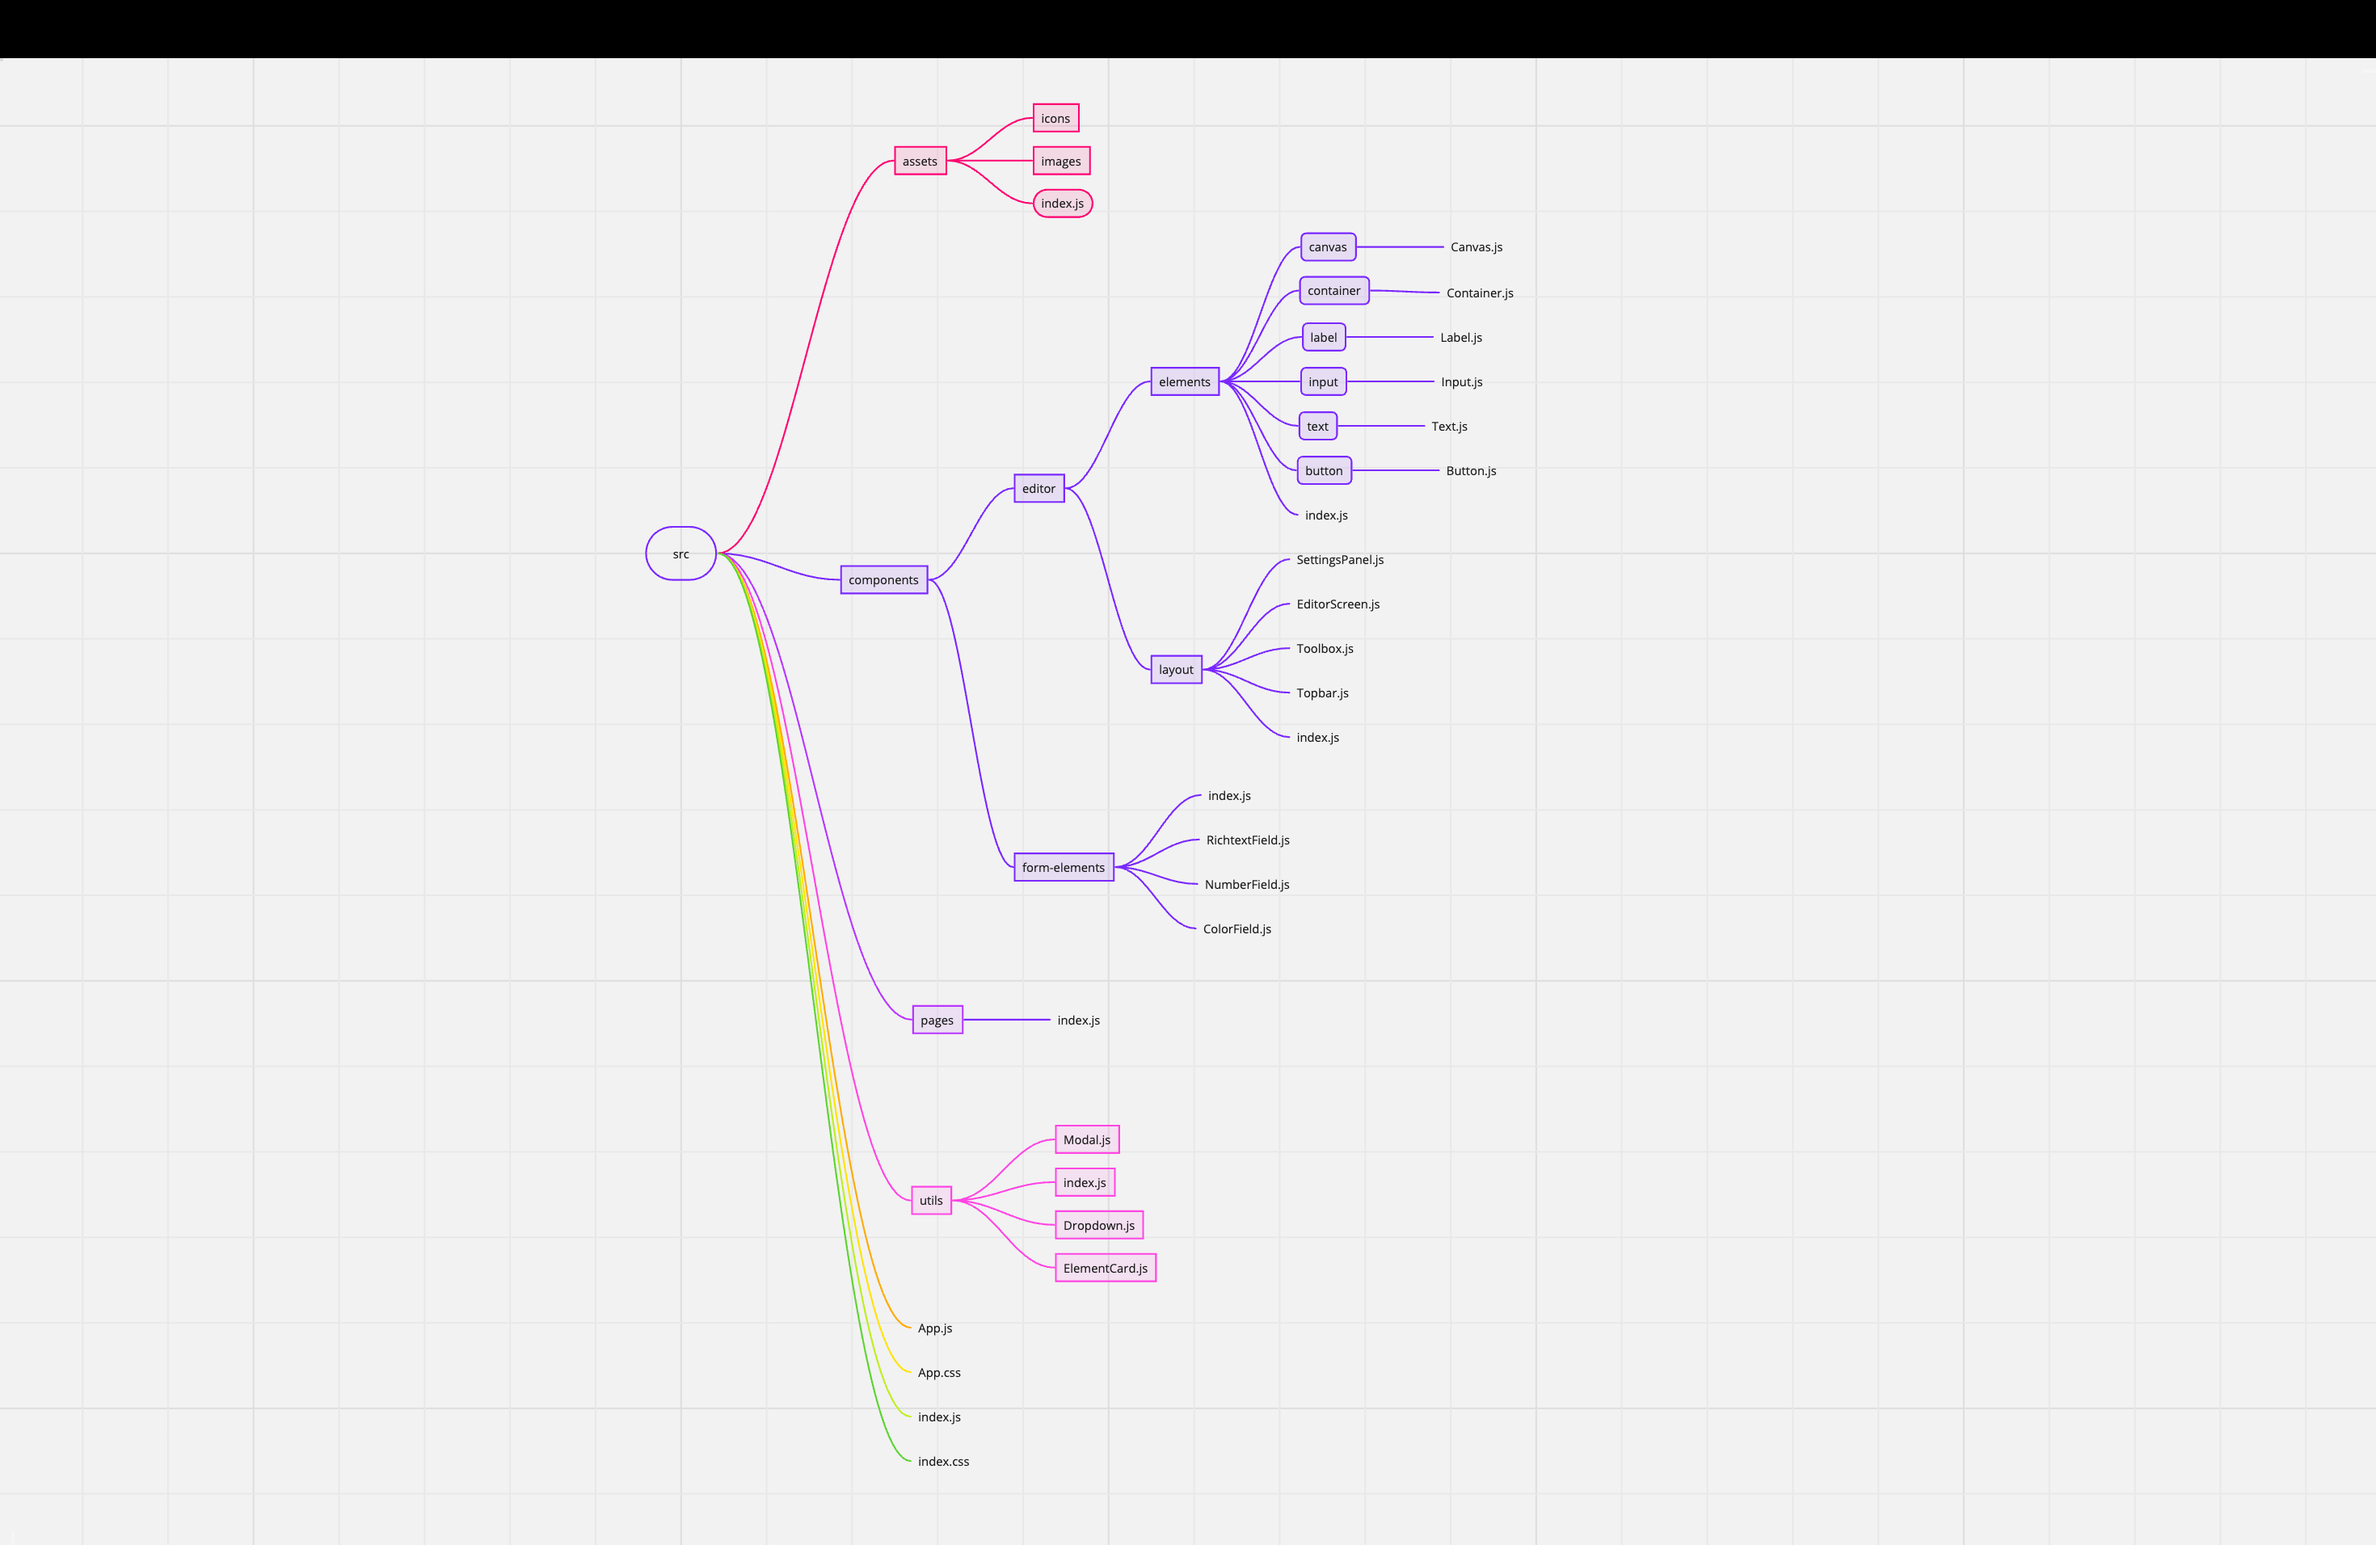
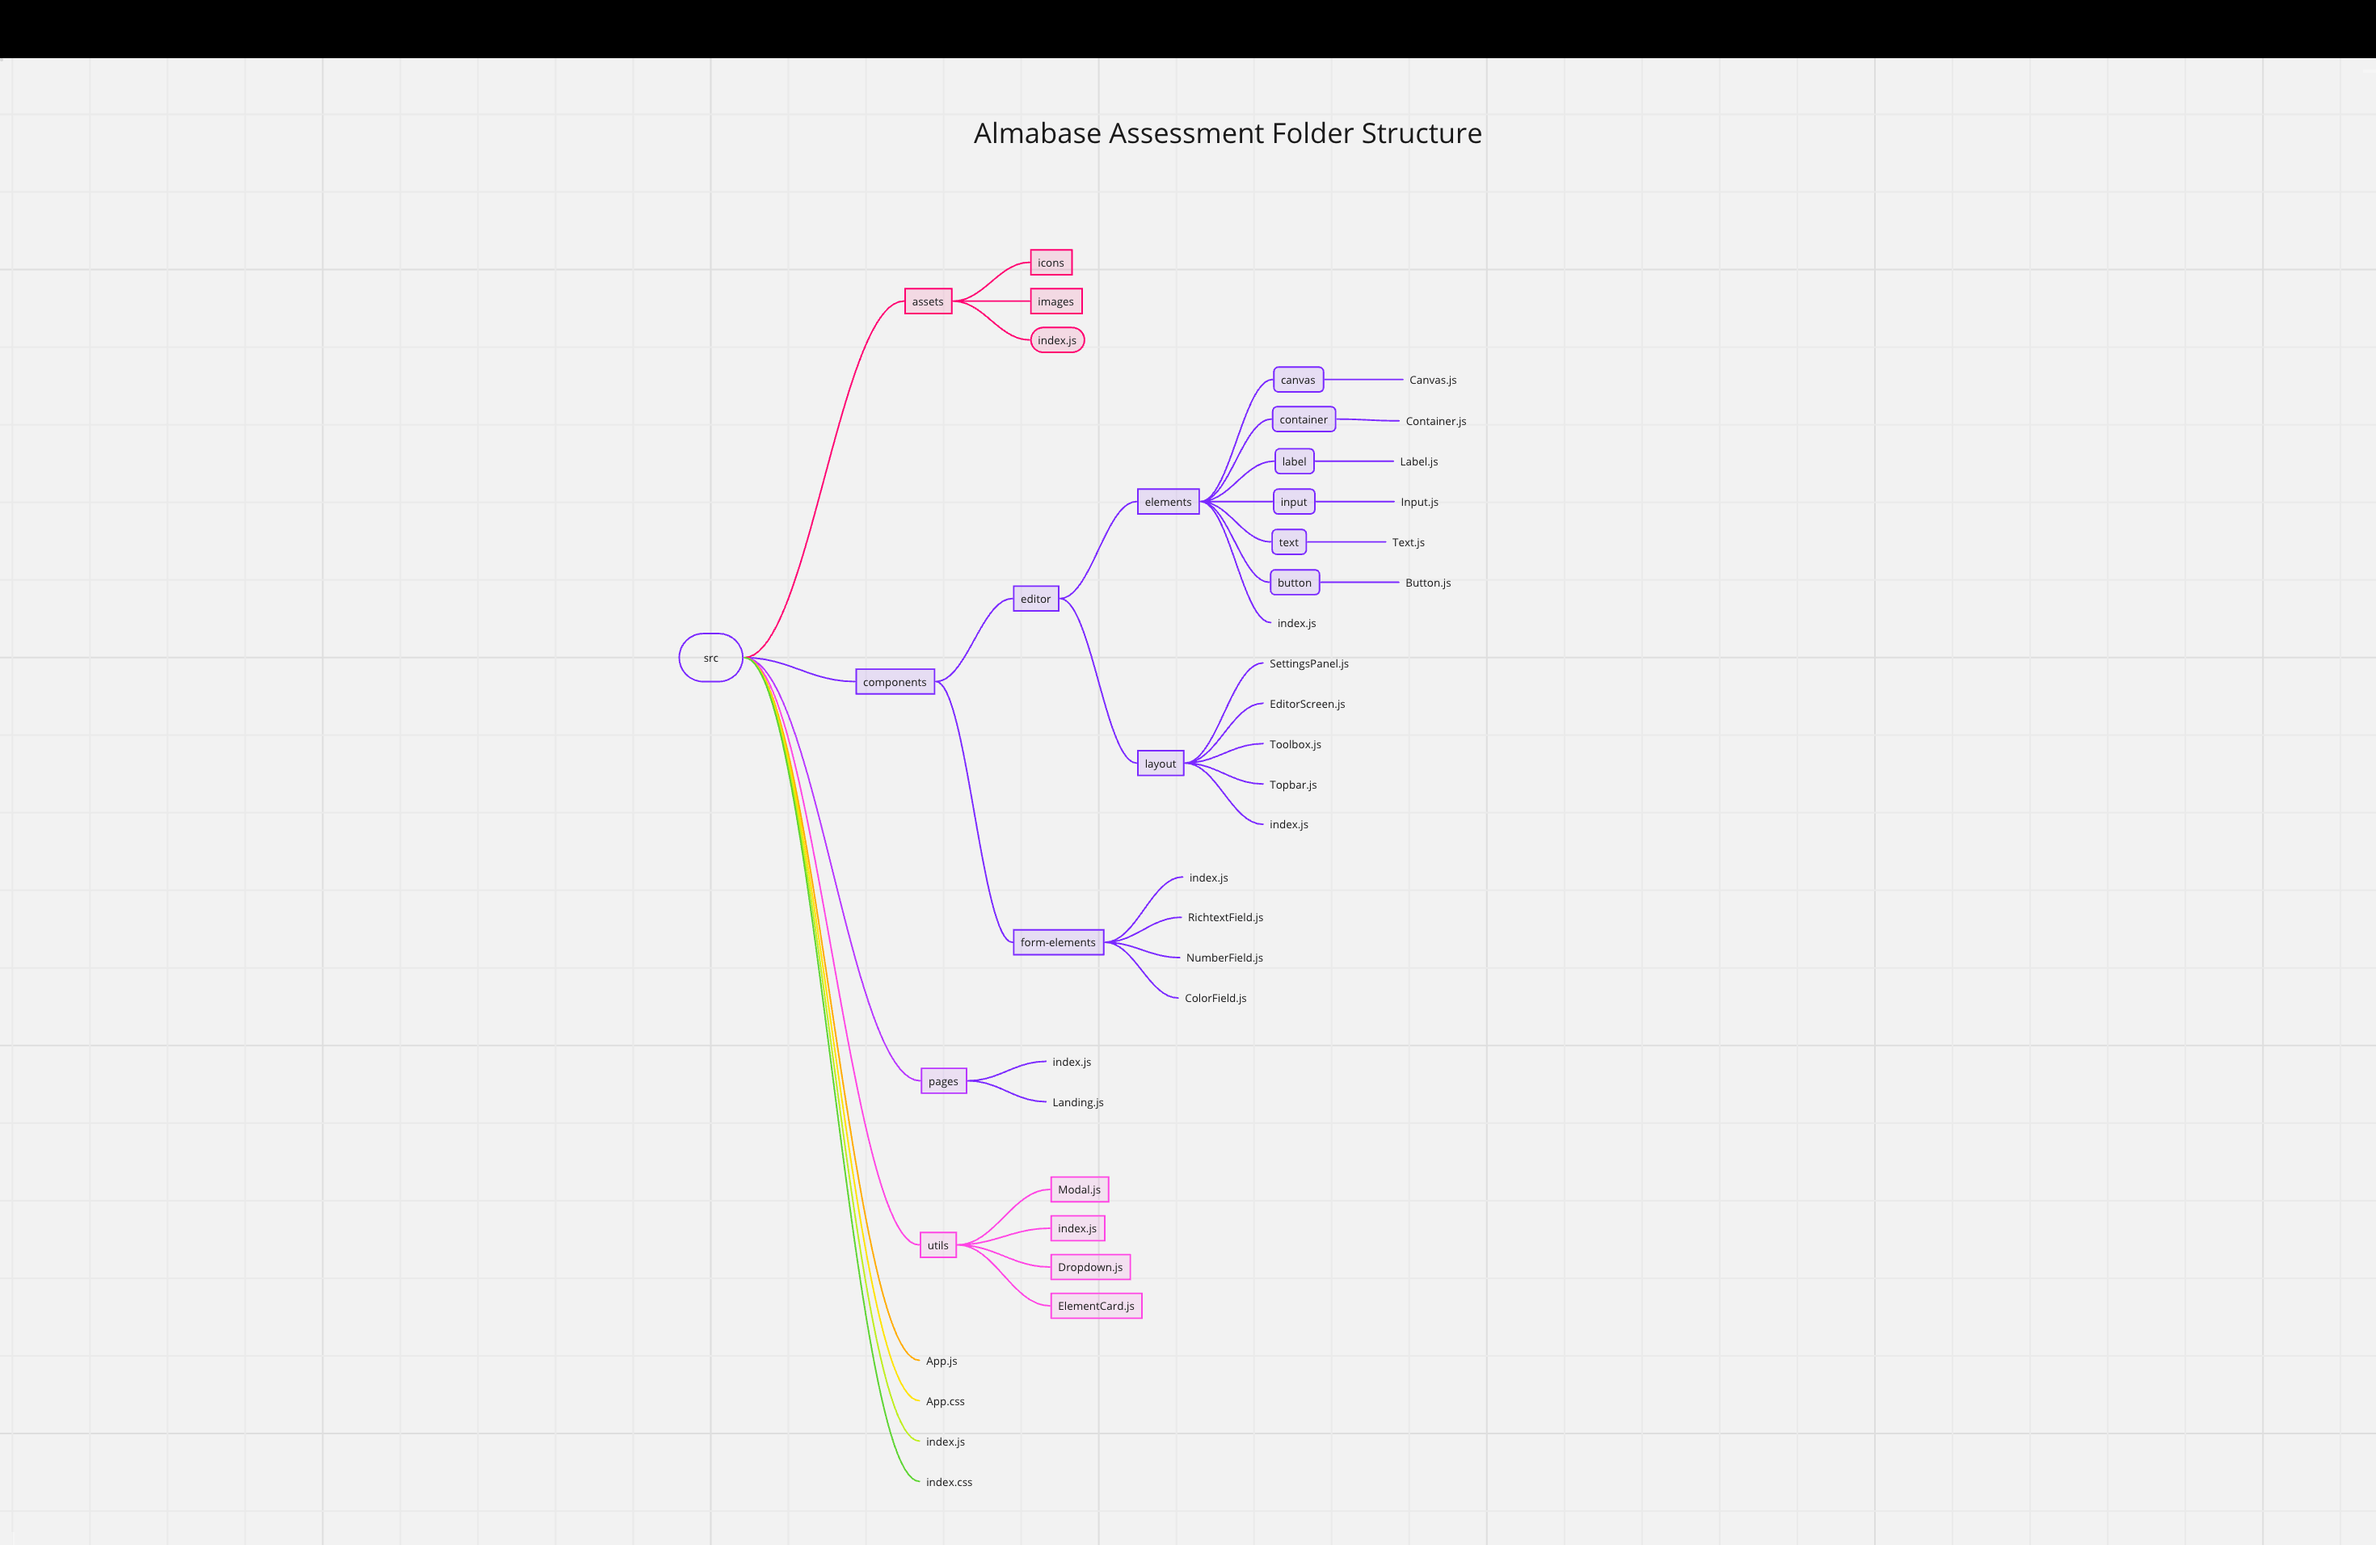
landing page added, ui fixes done review done

diff --git a/src/pages/Landing.js b/src/pages/Landing.js
@@ -1,0 +1,35 @@
+import React from "react";
+import { AlmabaseLogo } from "../assets";
+import { Link } from "react-router-dom";
+
+const Landing = () => {
+  return (
+    <div className="w-screen h-screen flex items-center justify-center">
+      <div className="w-72">
+        <div className="logo mb-2 flex items-center justify-center">
+          <img src={AlmabaseLogo} alt="" className="w-10 h-10" />
+        </div>
+        <h3 className="text-lg font-medium text-center">Almabase Assessment</h3>
+        <div className="flex gap-2 items-center mt-2">
+          <Link to="/editor" className="block flex-1">
+            <div className="cursor-pointer transition duration-300 flex-1 py-2 px-5 text-xs font-medium bg-black hover:bg-gray-800 text-white rounded flex gap-1 items-center justify-center">
+              Demo
+            </div>
+          </Link>
+
+          <a
+            href="https://github.com/03brainy-clicks/almabase/"
+            target="_black"
+            className="w-full block flex-1"
+          >
+            <div className="w-full transition duration-300 cursor-pointer flex-1 py-2 px-5 text-xs font-medium border border-black text-black  rounded flex gap-1 items-center justify-center">
+              Repo
+            </div>
+          </a>
+        </div>
+      </div>
+    </div>
+  );
+};
+
+export default Landing;

diff --git a/src/App.js b/src/App.js
@@ -1,9 +1,17 @@
 import React from "react";
-import BuildArea from "./pages";
+import Editor from "./pages";
+import Landing from "./pages/Landing";
+import { Route, BrowserRouter as Router, Routes } from "react-router-dom";
+
 const App = () => {
   return (
     <div className="flex h-screen w-screen">
-      <BuildArea />
+      <Router>
+        <Routes>
+          <Route path="/" element={<Landing />} />
+          <Route path="/editor" element={<Editor />} />
+        </Routes>
+      </Router>
     </div>
   );
 };

diff --git a/README.md b/README.md
@@ -1,4 +1,4 @@
-# AlmaBase Assessment - Comprehensive Documentation
+# AlmaBase Assessment 
 
 ## Overview
 
